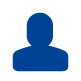
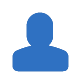
1、页面图标改成红色； 2、我的房源 添加“+” 号 跳到 继续绑定； 3、首页改个标题：房屋租赁信息发布； 4、物业费月份 改成手输最多12个月； 5、个人中心：亮蓝色； 6、个人中心：排序

diff --git a/pages/usercenter/index.js b/pages/usercenter/index.js
@@ -1,6 +1,29 @@
 import MComponent from '../../common/MComponent'
-import { _managelist } from '../../api/usercenter'
+import { _wholelist } from '../../api/usercenter'
 const app = getApp()
+const baseMenu = [
+  {
+    icon: './rent.png',
+    label: '房屋租赁',
+    path: '/pages/rent/list',
+    needMember: false,
+    show: true
+  },
+  {
+    icon: './news.png',
+    label: '新闻中心',
+    path: '/pages/news/list',
+    needMember: false,
+    show: true
+  },
+  {
+    icon: './notice.png',
+    label: '社区通知',
+    path: '/pages/message/list',
+    needMember: false,
+    show: true
+  }
+]
 const entries = [
   {
     icon: './myhouse.png',
@@ -20,16 +43,16 @@ const entries = [
     path: '/pages/advise-user/list',
     needMember: true
   },
-  {
-    icon: './deliver.png',
-    label: '快递代收',
-    path: '/pages/myhouse/index',
-    needMember: true
-  },
+  // {
+  //   icon: './deliver.png',
+  //   label: '快递代发',
+  //   path: '/pages/expressage/enter',
+  //   needMember: true
+  // },
   {
     icon: './fee.png',
     label: '物业缴费',
-    path: '/pages/myhouse/index',
+    path: '/pages/property-fee/index',
     needMember: true
   }
 ]
@@ -65,29 +88,7 @@ MComponent({
     uid: '',
     wxInfo: null,
     memberInfo: null,
-    list: [
-      {
-        icon: './rent.png',
-        label: '房屋租赁',
-        path: '/pages/rent/list',
-        needMember: false,
-        show: true
-      },
-      {
-        icon: './news.png',
-        label: '新闻中心',
-        path: '/pages/news/list',
-        needMember: false,
-        show: true
-      },
-      {
-        icon: './notice.png',
-        label: '社区通知',
-        path: '/pages/message/list',
-        needMember: false,
-        show: true
-      },
-    ]
+    list: baseMenu
   },
   computed: {
     showList() {
@@ -119,12 +120,12 @@ MComponent({
     },
     getManage() {
       const UnionID = wx.getStorageSync('uid')
-      _managelist(UnionID)
+      _wholelist(UnionID)
         .then(res => {
           const { code, data } = res.data
           if (code === 0) {
-            let { list } = this.data
-            list = [...list, ...entries, ...data]
+            let list = data
+            // list = [...list, ...entries, ...data]
             this.set({
               list
             })
@@ -175,6 +176,7 @@ MComponent({
           wx.hideLoading()
           console.log(err)
         })
-    }
+    },
+    onHide() { }
   }
 })

diff --git a/pages/property-fee/history.js b/pages/property-fee/history.js
@@ -106,15 +106,42 @@ MComponent({
       app.loading('加载中')
       app.checkAuth()
         .then(res => {
+          const uid = res
+          return app.getUserInfoByUid(uid)
+        })
+        .then(memberInfo => {
           wx.hideLoading()
-          this.init()
+          if (memberInfo.Type === '未绑定' || !memberInfo.Type) {
+            wx.showModal({
+              title: '温馨提示',
+              content: '还未绑定房源',
+              showCancel: false,
+              success: r => {
+                if (r.confirm) {
+                  wx.redirectTo({
+                    url: '/pages/regist/enter'
+                  })
+                }
+              }
+            })
+          } else {
+            this.init()
+          }
         })
         .catch(err => {
           wx.hideLoading()
           console.log(err)
-          const path = encodeURIComponent(this.route)
-          wx.redirectTo({
-            url: `/pages/auth/index?redirect=${path}`
+          wx.showModal({
+            title: '温馨提示',
+            content: '还未绑定房源',
+            showCancel: false,
+            success: r => {
+              if (r.confirm) {
+                wx.redirectTo({
+                  url: '/pages/regist/enter'
+                })
+              }
+            }
           })
         })
     }

diff --git a/pages/expressage/detail.js b/pages/expressage/detail.js
@@ -29,12 +29,12 @@ Page({
         if (code == 0) {
           let { expressBill, ExPrePath } = data
           expressBill.Price = formatNumber(expressBill.Price, 2)
-          let path_item_list = ExPrePath.path_item_list.map(item => {
+          let path_item_list = ExPrePath.path_item_list ? ExPrePath.path_item_list.map(item => {
             let arr = item.Action_Desc.split('-')
             item.tag = arr[0]
             item.desc = arr[1]
             return item
-          })
+          }) : []
           this.set({
             expressBill,
             path_item_list

diff --git a/pages/rent/record.js b/pages/rent/record.js
@@ -75,7 +75,7 @@ MComponent({
         .then(memberInfo => {
           console.log(memberInfo.Type)
           wx.hideLoading()
-          if (memberInfo.Type === '未绑定') {
+          if (memberInfo.Type === '未绑定' || !memberInfo.Type) {
             wx.showModal({
               title: '温馨提示',
               content: '还未绑定房源',

diff --git a/pages/rent/submit.js b/pages/rent/submit.js
@@ -337,7 +337,7 @@ Page({
       .then(memberInfo => {
         console.log(memberInfo.Type)
         wx.hideLoading()
-        if (memberInfo.Type === '未绑定') {
+        if (memberInfo.Type === '未绑定' || !memberInfo.Type) {
           wx.showModal({
             title: '温馨提示',
             content: '还未绑定房源',

diff --git a/pages/advise-manager/send.js b/pages/advise-manager/send.js
@@ -60,7 +60,9 @@ Page({
                 showCancel: false,
                 success: rr => {
                   if (rr.confirm && code == 0) {
-                    wx.navigateBack()
+                    wx.redirectTo({
+                      url: './list'
+                    })
                   }
                 }
               })

diff --git a/pages/advise-user/list.js b/pages/advise-user/list.js
@@ -143,7 +143,7 @@ MComponent({
         })
         .then(memberInfo => {
           wx.hideLoading()
-          if (memberInfo.Type === '未绑定') {
+          if (memberInfo.Type === '未绑定' || !memberInfo.Type) {
             wx.showModal({
               title: '温馨提示',
               content: '还未绑定房源',

diff --git a/pages/expressage/submit.js b/pages/expressage/submit.js
@@ -324,7 +324,7 @@ MComponent({
         })
         .then(memberInfo => {
           wx.hideLoading()
-          if (memberInfo.Type === '未绑定') {
+          if (memberInfo.Type === '未绑定' || !memberInfo.Type) {
             wx.showModal({
               title: '温馨提示',
               content: '还未绑定房源',

diff --git a/pages/message/list.js b/pages/message/list.js
@@ -118,7 +118,7 @@ MComponent({
         })
         .then(memberInfo => {
           wx.hideLoading()
-          if (memberInfo.Type === '未绑定') {
+          if (memberInfo.Type === '未绑定' || !memberInfo.Type) {
             wx.showModal({
               title: '温馨提示',
               content: '还未绑定房源',

diff --git a/pages/property-fee/query.js b/pages/property-fee/query.js
@@ -200,7 +200,7 @@ MComponent({
         })
         .then(memberInfo => {
           wx.hideLoading()
-          if (memberInfo.Type === '未绑定') {
+          if (memberInfo.Type === '未绑定' || !memberInfo.Type) {
             wx.showModal({
               title: '温馨提示',
               content: '还未绑定房源',

diff --git a/pages/repair-user/list.js b/pages/repair-user/list.js
@@ -144,7 +144,7 @@ MComponent({
         })
         .then(memberInfo => {
           wx.hideLoading()
-          if (memberInfo.Type === '未绑定') {
+          if (memberInfo.Type === '未绑定' || !memberInfo.Type) {
             wx.showModal({
               title: '温馨提示',
               content: '还未绑定房源',

diff --git a/pages/repair-user/submit.js b/pages/repair-user/submit.js
@@ -278,7 +278,7 @@ MComponent({
         })
         .then(memberInfo => {
           wx.hideLoading()
-          if (memberInfo.Type === '未绑定') {
+          if (memberInfo.Type === '未绑定' || !memberInfo.Type) {
             wx.showModal({
               title: '温馨提示',
               content: '还未绑定房源',
